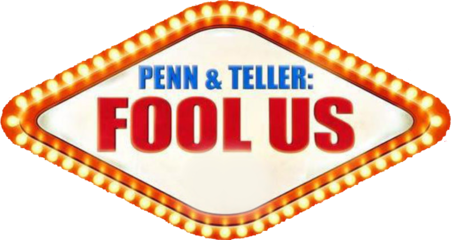
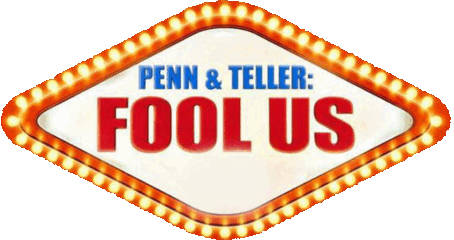
SEO round 2: About page, click-to-play videos with video search data, lighter photos
- /about/: quick facts (Fool Us S9 + S11, The CW, Chicago Magic Lounge, Fox 59 / WISH-TV),
  celebrity quotes, Fool Us bullet catch video, AboutPage + VideoObject data. Linked from
  home footer, service pages, sitemap, llms.txt.
- Corporate / weddings / emcee: one YouTube clip each, thumbnail first (YouTube loads only
  on play, via youtube-nocookie), VideoObject data. service.css ?v=3.
- hero-wide/hero-mobile -40%, fool-us.png -71%, visually identical.

diff --git a/about/index.html b/about/index.html
@@ -1,0 +1,127 @@
+<!DOCTYPE html>
+<html lang="en">
+  <head>
+    <meta charset="utf-8" />
+    <meta name="viewport" content="width=device-width, initial-scale=1" />
+    <title>About Jon Mobley | Indianapolis Magician, Comedian &amp; Emcee</title>
+    <meta name="description" content="Jon Mobley is an Indianapolis magician, comedian and emcee. Two-time Penn &amp; Teller: Fool Us performer, featured at the Chicago Magic Lounge, and a regular on Indianapolis morning TV." />
+    <link rel="canonical" href="https://jonmobley.com/about/" />
+    <link rel="icon" href="/images/favicon-192.png" type="image/png" />
+    <meta property="og:type" content="profile" />
+    <meta property="og:site_name" content="Jon Mobley" />
+    <meta property="og:url" content="https://jonmobley.com/about/" />
+    <meta property="og:title" content="About Jon Mobley" />
+    <meta property="og:description" content="Jon Mobley is an Indianapolis magician, comedian and emcee. Two-time Penn &amp; Teller: Fool Us performer, featured at the Chicago Magic Lounge, and a regular on Indianapolis morning TV." />
+    <meta property="og:image" content="https://jonmobley.com/images/og-home.jpg" />
+    <meta name="twitter:card" content="summary_large_image" />
+    <link rel="preconnect" href="https://fonts.googleapis.com" />
+    <link rel="preconnect" href="https://fonts.gstatic.com" crossorigin />
+    <link href="https://fonts.googleapis.com/css2?family=Montserrat:wght@400;600;700&display=swap" rel="stylesheet" />
+    <link rel="stylesheet" href="/css/service.css?v=3" />
+    <script type="application/ld+json">
+{
+  "@context": "https://schema.org",
+  "@graph": [
+    {
+      "@type": "AboutPage",
+      "@id": "https://jonmobley.com/about/#page",
+      "url": "https://jonmobley.com/about/",
+      "name": "About Jon Mobley",
+      "description": "Jon Mobley is an Indianapolis magician, comedian and emcee. Two-time Penn & Teller: Fool Us performer, featured at the Chicago Magic Lounge, and a regular on Indianapolis morning TV.",
+      "mainEntity": {
+        "@id": "https://jonmobley.com/#jon"
+      },
+      "isPartOf": {
+        "@id": "https://jonmobley.com/#site"
+      }
+    },
+    {
+      "@type": "VideoObject",
+      "@id": "https://jonmobley.com/about/#video",
+      "name": "Bullet Catch // Jon Mobley Penn & Teller Fool Us S09E01",
+      "description": "Jon Mobley performs a bullet catch on Penn & Teller: Fool Us, Season 9 Episode 1.",
+      "thumbnailUrl": [
+        "https://i.ytimg.com/vi/mG_AhoBb04U/maxresdefault.jpg",
+        "https://i.ytimg.com/vi/mG_AhoBb04U/hqdefault.jpg"
+      ],
+      "uploadDate": "2022-10-15T22:06:02-07:00",
+      "duration": "PT7M25S",
+      "contentUrl": "https://www.youtube.com/watch?v=mG_AhoBb04U",
+      "embedUrl": "https://www.youtube.com/embed/mG_AhoBb04U",
+      "publisher": {
+        "@id": "https://jonmobley.com/#business"
+      }
+    },
+    {
+      "@type": "BreadcrumbList",
+      "itemListElement": [
+        {
+          "@type": "ListItem",
+          "position": 1,
+          "name": "Home",
+          "item": "https://jonmobley.com/"
+        },
+        {
+          "@type": "ListItem",
+          "position": 2,
+          "name": "About",
+          "item": "https://jonmobley.com/about/"
+        }
+      ]
+    }
+  ]
+}
+    </script>
+  </head>
+  <body>
+    <main>
+      <div class="top">
+        <a href="/"><img class="logo" src="/images/logo.png" alt="Jon Mobley" /></a>
+        <a class="cta" href="/booking/">Check your date</a>
+      </div>
+      <p class="eyebrow">About</p>
+      <h1>About Jon Mobley</h1>
+      <p class="lead">Jon Mobley is a magician, comedian and emcee based in Indianapolis. He entertains crowds with his magnetic personality, quick wit and jaw-dropping surprises.</p>
+      <img class="hero" src="/images/hero-wide.jpg" alt="Jon Mobley in a tuxedo seated in a lounge" width="1920" height="842" />
+
+      <h2>Quick facts</h2>
+      <ul class="facts">
+        <li><strong>Based in</strong> Indianapolis, Indiana. Performs across Indiana and beyond.</li>
+        <li><strong>Penn &amp; Teller: Fool Us</strong> on The CW, twice: a bullet catch in Season 9 and “Literal Magic” in Season 11.</li>
+        <li><strong>Featured performer</strong> at the Chicago Magic Lounge.</li>
+        <li><strong>On TV in Indy:</strong> regular magic segments on Fox 59 IndyNow and WISH-TV.</li>
+        <li><strong>Shows:</strong> Sleight of Mind, his comedy stage show; strolling close-up magic; and emceeing for galas, fundraisers and corporate events.</li>
+        <li><strong>Rated 5.0</strong> from 139 Google reviews.</li>
+      </ul>
+
+      <h2>What people say</h2>
+      <div class="quotes">
+        <figure><blockquote>“REALLY BAFFLING!”</blockquote><figcaption>Penn Jillette, Penn &amp; Teller: Fool Us!</figcaption></figure>
+        <figure><blockquote>“AWESOME!”</blockquote><figcaption>Michael Strahan, Co-Host, Good Morning America</figcaption></figure>
+        <figure><blockquote>“what?! no way!”</blockquote><figcaption>Drew Brees, NFL Saints Quarterback</figcaption></figure>
+      </div>
+
+      <h2>See Jon on Fool Us</h2>
+      <a class="video" href="https://www.youtube.com/watch?v=mG_AhoBb04U" data-id="mG_AhoBb04U" aria-label="Play video: Bullet Catch, Jon Mobley on Penn &amp; Teller: Fool Us">
+        <img src="https://i.ytimg.com/vi/mG_AhoBb04U/hqdefault.jpg" alt="" width="480" height="360" loading="lazy" />
+        <span class="play" aria-hidden="true"></span>
+      </a>
+      <p class="video-cap">Jon's bullet catch on Penn &amp; Teller: Fool Us, Season 9.</p>
+
+      <h2>Book Jon for</h2>
+      <div class="shows">
+        <a class="show link" href="/corporate-events/"><h3>Corporate events</h3><p>Company parties, conferences, client events and galas.</p></a>
+        <a class="show link" href="/weddings/"><h3>Weddings</h3><p>Walk-around magic for the cocktail hour and reception.</p></a>
+        <a class="show link" href="/emcee/"><h3>Emcee &amp; fundraisers</h3><p>Hosting galas, awards nights and fundraisers, with magic throughout.</p></a>
+      </div>
+
+      <div class="book">
+        <h2 style="margin-top:0">Is Jon free on your date?</h2>
+        <p>Request your date and Jon will get back to you, or email <a href="mailto:booking@jonmobley.com">booking@jonmobley.com</a> or call <a href="tel:+13174261270">317-426-1270</a>.</p>
+        <a class="cta" href="/booking/">Check your date</a>
+      </div>
+      <p class="more">Follow: <a href="https://youtube.com/@jonmobley" target="_blank" rel="noreferrer noopener">YouTube</a> <a href="https://instagram.com/mobleymagic" target="_blank" rel="noreferrer noopener">Instagram</a> <a href="https://facebook.com/mobleymagic" target="_blank" rel="noreferrer noopener">Facebook</a> <a href="https://g.page/jon-mobley" target="_blank" rel="noreferrer noopener">Google reviews</a></p>
+    </main>
+    <script src="/js/video.js?v=1" defer></script>
+  </body>
+</html>

diff --git a/corporate-events/index.html b/corporate-events/index.html
@@ -17,7 +17,7 @@
     <link rel="preconnect" href="https://fonts.googleapis.com" />
     <link rel="preconnect" href="https://fonts.gstatic.com" crossorigin />
     <link href="https://fonts.googleapis.com/css2?family=Montserrat:wght@400;600;700&display=swap" rel="stylesheet" />
-    <link rel="stylesheet" href="/css/service.css?v=2" />
+    <link rel="stylesheet" href="/css/service.css?v=3" />
     <script type="application/ld+json">
 {
   "@context": "https://schema.org",
@@ -133,6 +133,23 @@
           "item": "https://jonmobley.com/corporate-events/"
         }
       ]
+    },
+    {
+      "@type": "VideoObject",
+      "@id": "https://jonmobley.com/corporate-events/#video",
+      "name": "Magician plays roulette with borrowed iPhone?!",
+      "description": "Jon Mobley performs on stage with an event host, playing roulette with an audience member's borrowed iPhone.",
+      "thumbnailUrl": [
+        "https://i.ytimg.com/vi/zeZCExqq1LU/maxresdefault.jpg",
+        "https://i.ytimg.com/vi/zeZCExqq1LU/hqdefault.jpg"
+      ],
+      "uploadDate": "2023-07-24T21:09:45-07:00",
+      "duration": "PT5M39S",
+      "contentUrl": "https://www.youtube.com/watch?v=zeZCExqq1LU",
+      "embedUrl": "https://www.youtube.com/embed/zeZCExqq1LU",
+      "publisher": {
+        "@id": "https://jonmobley.com/#business"
+      }
     }
   ]
 }
@@ -156,6 +173,12 @@
       <h2>What your guests get</h2>
       <p>Jon entertains crowds with his magnetic personality, quick wit and jaw-dropping surprises. His comedy is built for mixed rooms: coworkers, clients and their partners all laughing at the same thing.</p>
       <p>Book a stage show for the main event, strolling magic to get people mingling, or both.</p>
+      <h2>See Jon on stage</h2>
+      <a class="video" href="https://www.youtube.com/watch?v=zeZCExqq1LU" data-id="zeZCExqq1LU" aria-label="Play video: Magician plays roulette with borrowed iPhone?!">
+        <img src="https://i.ytimg.com/vi/zeZCExqq1LU/hqdefault.jpg" alt="" width="480" height="360" loading="lazy" />
+        <span class="play" aria-hidden="true"></span>
+      </a>
+      <p class="video-cap">Jon on stage with an event host, using an audience member's borrowed phone.</p>
       <h2>Shows</h2>
       <div class="shows">
         <div class="show"><h3>Sleight of Mind: comedy stage show</h3><p>60 minutes. Jon's unique and hilarious take on the art of illusion, with a playlist of energetic music that keeps everything upbeat. Everyone leaves laughing and asking, “How’d he do that?!”</p></div>
@@ -183,7 +206,8 @@
         <p>Request your date and Jon will get back to you, or email <a href="mailto:booking@jonmobley.com">booking@jonmobley.com</a> or call <a href="tel:+13174261270">317-426-1270</a>.</p>
         <a class="cta" href="/booking/">Check your date</a>
       </div>
-      <p class="more">Also: <a href="/weddings/">Weddings</a> <a href="/emcee/">Emcee & fundraisers</a> <a href="/agents/">Book with an AI assistant</a> <a href="https://g.page/jon-mobley" target="_blank" rel="noreferrer noopener">Google reviews</a></p>
+      <p class="more">Also: <a href="/about/">About Jon</a> <a href="/weddings/">Weddings</a> <a href="/emcee/">Emcee & fundraisers</a> <a href="/agents/">Book with an AI assistant</a> <a href="https://g.page/jon-mobley" target="_blank" rel="noreferrer noopener">Google reviews</a></p>
     </main>
+    <script src="/js/video.js?v=1" defer></script>
   </body>
 </html>

diff --git a/emcee/index.html b/emcee/index.html
@@ -17,7 +17,7 @@
     <link rel="preconnect" href="https://fonts.googleapis.com" />
     <link rel="preconnect" href="https://fonts.gstatic.com" crossorigin />
     <link href="https://fonts.googleapis.com/css2?family=Montserrat:wght@400;600;700&display=swap" rel="stylesheet" />
-    <link rel="stylesheet" href="/css/service.css?v=2" />
+    <link rel="stylesheet" href="/css/service.css?v=3" />
     <script type="application/ld+json">
 {
   "@context": "https://schema.org",
@@ -133,6 +133,23 @@
           "item": "https://jonmobley.com/emcee/"
         }
       ]
+    },
+    {
+      "@type": "VideoObject",
+      "@id": "https://jonmobley.com/emcee/#video",
+      "name": "Hosts are PUZZLED and AMAZED by Llama Magician",
+      "description": "Jon Mobley performs live on morning TV with the show's hosts, the same quick, unscripted style he brings to emceeing.",
+      "thumbnailUrl": [
+        "https://i.ytimg.com/vi/RbUlb93NpwU/maxresdefault.jpg",
+        "https://i.ytimg.com/vi/RbUlb93NpwU/hqdefault.jpg"
+      ],
+      "uploadDate": "2023-12-18T11:58:29-08:00",
+      "duration": "PT5M28S",
+      "contentUrl": "https://www.youtube.com/watch?v=RbUlb93NpwU",
+      "embedUrl": "https://www.youtube.com/embed/RbUlb93NpwU",
+      "publisher": {
+        "@id": "https://jonmobley.com/#business"
+      }
     }
   ]
 }
@@ -156,6 +173,12 @@
       <h2>A host who reads the room</h2>
       <p>Jon's charismatic emcee style puts everyone at ease. He keeps the night moving between speakers, awards and announcements, and fills the gaps with quick wit and magic.</p>
       <p>For fundraisers, Jon can join your auctioneer as a fun, energetic sidekick. His energy and music playlist get the room participating, which helps bidding.</p>
+      <h2>See Jon with a crowd</h2>
+      <a class="video" href="https://www.youtube.com/watch?v=RbUlb93NpwU" data-id="RbUlb93NpwU" aria-label="Play video: Hosts are PUZZLED and AMAZED by Llama Magician">
+        <img src="https://i.ytimg.com/vi/RbUlb93NpwU/hqdefault.jpg" alt="" width="480" height="360" loading="lazy" />
+        <span class="play" aria-hidden="true"></span>
+      </a>
+      <p class="video-cap">Jon live on morning TV with the show's hosts: quick, unscripted and fun.</p>
       <h2>Shows</h2>
       <div class="shows">
         <div class="show"><h3>Emcee Extraordinaire</h3><p>Your whole program. Jon hosts your event from welcome to goodnight, with magic throughout.</p></div>
@@ -183,7 +206,8 @@
         <p>Request your date and Jon will get back to you, or email <a href="mailto:booking@jonmobley.com">booking@jonmobley.com</a> or call <a href="tel:+13174261270">317-426-1270</a>.</p>
         <a class="cta" href="/booking/">Check your date</a>
       </div>
-      <p class="more">Also: <a href="/corporate-events/">Corporate events</a> <a href="/weddings/">Weddings</a> <a href="/agents/">Book with an AI assistant</a> <a href="https://g.page/jon-mobley" target="_blank" rel="noreferrer noopener">Google reviews</a></p>
+      <p class="more">Also: <a href="/about/">About Jon</a> <a href="/corporate-events/">Corporate events</a> <a href="/weddings/">Weddings</a> <a href="/agents/">Book with an AI assistant</a> <a href="https://g.page/jon-mobley" target="_blank" rel="noreferrer noopener">Google reviews</a></p>
     </main>
+    <script src="/js/video.js?v=1" defer></script>
   </body>
 </html>

diff --git a/weddings/index.html b/weddings/index.html
@@ -17,7 +17,7 @@
     <link rel="preconnect" href="https://fonts.googleapis.com" />
     <link rel="preconnect" href="https://fonts.gstatic.com" crossorigin />
     <link href="https://fonts.googleapis.com/css2?family=Montserrat:wght@400;600;700&display=swap" rel="stylesheet" />
-    <link rel="stylesheet" href="/css/service.css?v=2" />
+    <link rel="stylesheet" href="/css/service.css?v=3" />
     <script type="application/ld+json">
 {
   "@context": "https://schema.org",
@@ -133,6 +133,23 @@
           "item": "https://jonmobley.com/weddings/"
         }
       ]
+    },
+    {
+      "@type": "VideoObject",
+      "@id": "https://jonmobley.com/weddings/#video",
+      "name": "Magician does LITERAL Magic | FOOL US | S11E18 CW",
+      "description": "Jon Mobley performs on Penn & Teller: Fool Us, Season 11 Episode 18 on The CW.",
+      "thumbnailUrl": [
+        "https://i.ytimg.com/vi/I_7CWHIjhqc/maxresdefault.jpg",
+        "https://i.ytimg.com/vi/I_7CWHIjhqc/hqdefault.jpg"
+      ],
+      "uploadDate": "2025-11-21T16:03:41-08:00",
+      "duration": "PT6M14S",
+      "contentUrl": "https://www.youtube.com/watch?v=I_7CWHIjhqc",
+      "embedUrl": "https://www.youtube.com/embed/I_7CWHIjhqc",
+      "publisher": {
+        "@id": "https://jonmobley.com/#business"
+      }
     }
   ]
 }
@@ -156,6 +173,12 @@
       <h2>Why couples book magic</h2>
       <p>The cocktail hour is when guests are waiting: for photos to finish, for dinner, for the party to start. Jon turns that time into the moment everyone talks about.</p>
       <p>He moves from group to group with sleight of hand and mind reading, so every guest gets a front-row moment and nobody has to leave their table.</p>
+      <h2>See Jon perform</h2>
+      <a class="video" href="https://www.youtube.com/watch?v=I_7CWHIjhqc" data-id="I_7CWHIjhqc" aria-label="Play video: Magician does LITERAL Magic | FOOL US | S11E18 CW">
+        <img src="https://i.ytimg.com/vi/I_7CWHIjhqc/hqdefault.jpg" alt="" width="480" height="360" loading="lazy" />
+        <span class="play" aria-hidden="true"></span>
+      </a>
+      <p class="video-cap">Jon on Penn &amp; Teller: Fool Us (Season 11, The CW).</p>
       <h2>Shows</h2>
       <div class="shows">
         <div class="show"><h3>Cocktail Capers</h3><p>1 hour. Perfect for kicking off the reception with a burst of magical fun during the cocktail hour.</p></div>
@@ -183,7 +206,8 @@
         <p>Request your date and Jon will get back to you, or email <a href="mailto:booking@jonmobley.com">booking@jonmobley.com</a> or call <a href="tel:+13174261270">317-426-1270</a>.</p>
         <a class="cta" href="/booking/">Check your date</a>
       </div>
-      <p class="more">Also: <a href="/corporate-events/">Corporate events</a> <a href="/emcee/">Emcee & fundraisers</a> <a href="/agents/">Book with an AI assistant</a> <a href="https://g.page/jon-mobley" target="_blank" rel="noreferrer noopener">Google reviews</a></p>
+      <p class="more">Also: <a href="/about/">About Jon</a> <a href="/corporate-events/">Corporate events</a> <a href="/emcee/">Emcee & fundraisers</a> <a href="/agents/">Book with an AI assistant</a> <a href="https://g.page/jon-mobley" target="_blank" rel="noreferrer noopener">Google reviews</a></p>
     </main>
+    <script src="/js/video.js?v=1" defer></script>
   </body>
 </html>

diff --git a/e2e/smoke.spec.ts b/e2e/smoke.spec.ts
@@ -80,7 +80,8 @@ for (const [path, heading] of [
     await expect(page.getByRole("link", { name: "Check your date" }).first()).toHaveAttribute("href", "/booking/");
     const data = JSON.parse((await page.locator('script[type="application/ld+json"]').textContent()) || "{}");
     const types = data["@graph"].map((n: { "@type": string }) => n["@type"]);
-    expect(types).toEqual(expect.arrayContaining(["Service", "FAQPage"]));
+    expect(types).toEqual(expect.arrayContaining(["Service", "FAQPage", "VideoObject"]));
+    await expect(page.locator("a.video")).toHaveCount(1);
     await expect(page.locator(".reviews figure")).toHaveCount(3);
     await expect(page.getByRole("link", { name: "Read them on Google" })).toHaveAttribute("href", "https://g.page/jon-mobley");
     expect(errors).toEqual([]);
@@ -102,6 +103,17 @@ test("home page shows client reviews linked to Google", async ({ page }) => {
   await page.goto("/");
   await expect(page.locator("section.reviews figure")).toHaveCount(4);
   await expect(page.getByRole("link", { name: "Read them on Google" })).toHaveAttribute("href", "https://g.page/jon-mobley");
+});
+
+test("about page has facts, search data and a click-to-play video", async ({ page }) => {
+  await page.goto("/about/");
+  await expect(page.getByRole("heading", { level: 1, name: "About Jon Mobley" })).toBeVisible();
+  const data = JSON.parse((await page.locator('script[type="application/ld+json"]').textContent()) || "{}");
+  const types = data["@graph"].map((n: { "@type": string }) => n["@type"]);
+  expect(types).toEqual(expect.arrayContaining(["AboutPage", "VideoObject"]));
+  await expect(page.locator("iframe")).toHaveCount(0);
+  await page.locator("a.video").click();
+  await expect(page.locator('iframe[src*="youtube-nocookie.com/embed/mG_AhoBb04U"]')).toHaveCount(1);
 });
 
 test("unknown addresses show the 404 page", async ({ page }) => {

diff --git a/css/service.css b/css/service.css
@@ -17,6 +17,18 @@ h1 { font-size: clamp(30px, 6vw, 46px); line-height: 1.1; margin: 0 0 16px; lett
 .quotes figcaption { color: #999; font-size: 14px; line-height: 1.4; }
 h2 { font-size: 24px; line-height: 1.2; margin: 44px 0 12px; }
 p { color: #ddd; margin: 0 0 14px; }
+.facts { padding-left: 20px; margin: 12px 0; }
+.facts li { color: #ddd; margin: 0 0 10px; }
+.facts strong { color: #fff; }
+a.show.link { display: block; color: inherit; text-decoration: none; }
+a.show.link:hover { border-color: #469AE1; }
+.video { position: relative; display: block; aspect-ratio: 16 / 9; border-radius: 14px; overflow: hidden; background: #111; margin: 16px 0 8px; }
+.video img { width: 100%; height: 100%; object-fit: cover; display: block; }
+.video .play { position: absolute; left: 50%; top: 50%; width: 68px; height: 48px; margin: -24px 0 0 -34px; background: rgba(0,0,0,.72); border-radius: 12px; transition: background .15s; }
+.video .play::after { content: ""; position: absolute; left: 28px; top: 14px; border-style: solid; border-width: 10px 0 10px 16px; border-color: transparent transparent transparent #fff; }
+.video:hover .play { background: #e00; }
+iframe { width: 100%; aspect-ratio: 16 / 9; border: 0; border-radius: 14px; display: block; margin: 16px 0 8px; }
+.video-cap { color: #999; font-size: 14px; }
 .reviews { display: grid; grid-template-columns: repeat(auto-fit, minmax(220px, 1fr)); gap: 12px; margin: 16px 0 12px; }
 .reviews figure { margin: 0; background: #111; border: 1px solid #262626; border-radius: 14px; padding: 18px 20px; }
 .reviews blockquote { margin: 0 0 8px; font-size: 16px; line-height: 1.5; color: #eee; }

diff --git a/js/video.js b/js/video.js
@@ -1,0 +1,13 @@
+// Click-to-play YouTube: the page shows a thumbnail and only loads YouTube
+// when someone presses play, so the service pages stay fast.
+document.querySelectorAll("a.video[data-id]").forEach((link) => {
+  link.addEventListener("click", (event) => {
+    event.preventDefault();
+    const frame = document.createElement("iframe");
+    frame.src = `https://www.youtube-nocookie.com/embed/${link.dataset.id}?autoplay=1&rel=0`;
+    frame.title = link.getAttribute("aria-label") || "Video";
+    frame.allow = "autoplay; encrypted-media; picture-in-picture; fullscreen";
+    frame.allowFullscreen = true;
+    link.replaceWith(frame);
+  });
+});

diff --git a/index.html b/index.html
@@ -265,6 +265,7 @@
         <a href="/corporate-events/">Corporate events</a>
         <a href="/weddings/">Weddings</a>
         <a href="/emcee/">Emcee &amp; fundraisers</a>
+        <a href="/about/">About</a>
         <a href="/booking/">Booking</a>
         <a href="https://g.page/jon-mobley" target="_blank" rel="noreferrer noopener">Google reviews</a>
       </nav>
